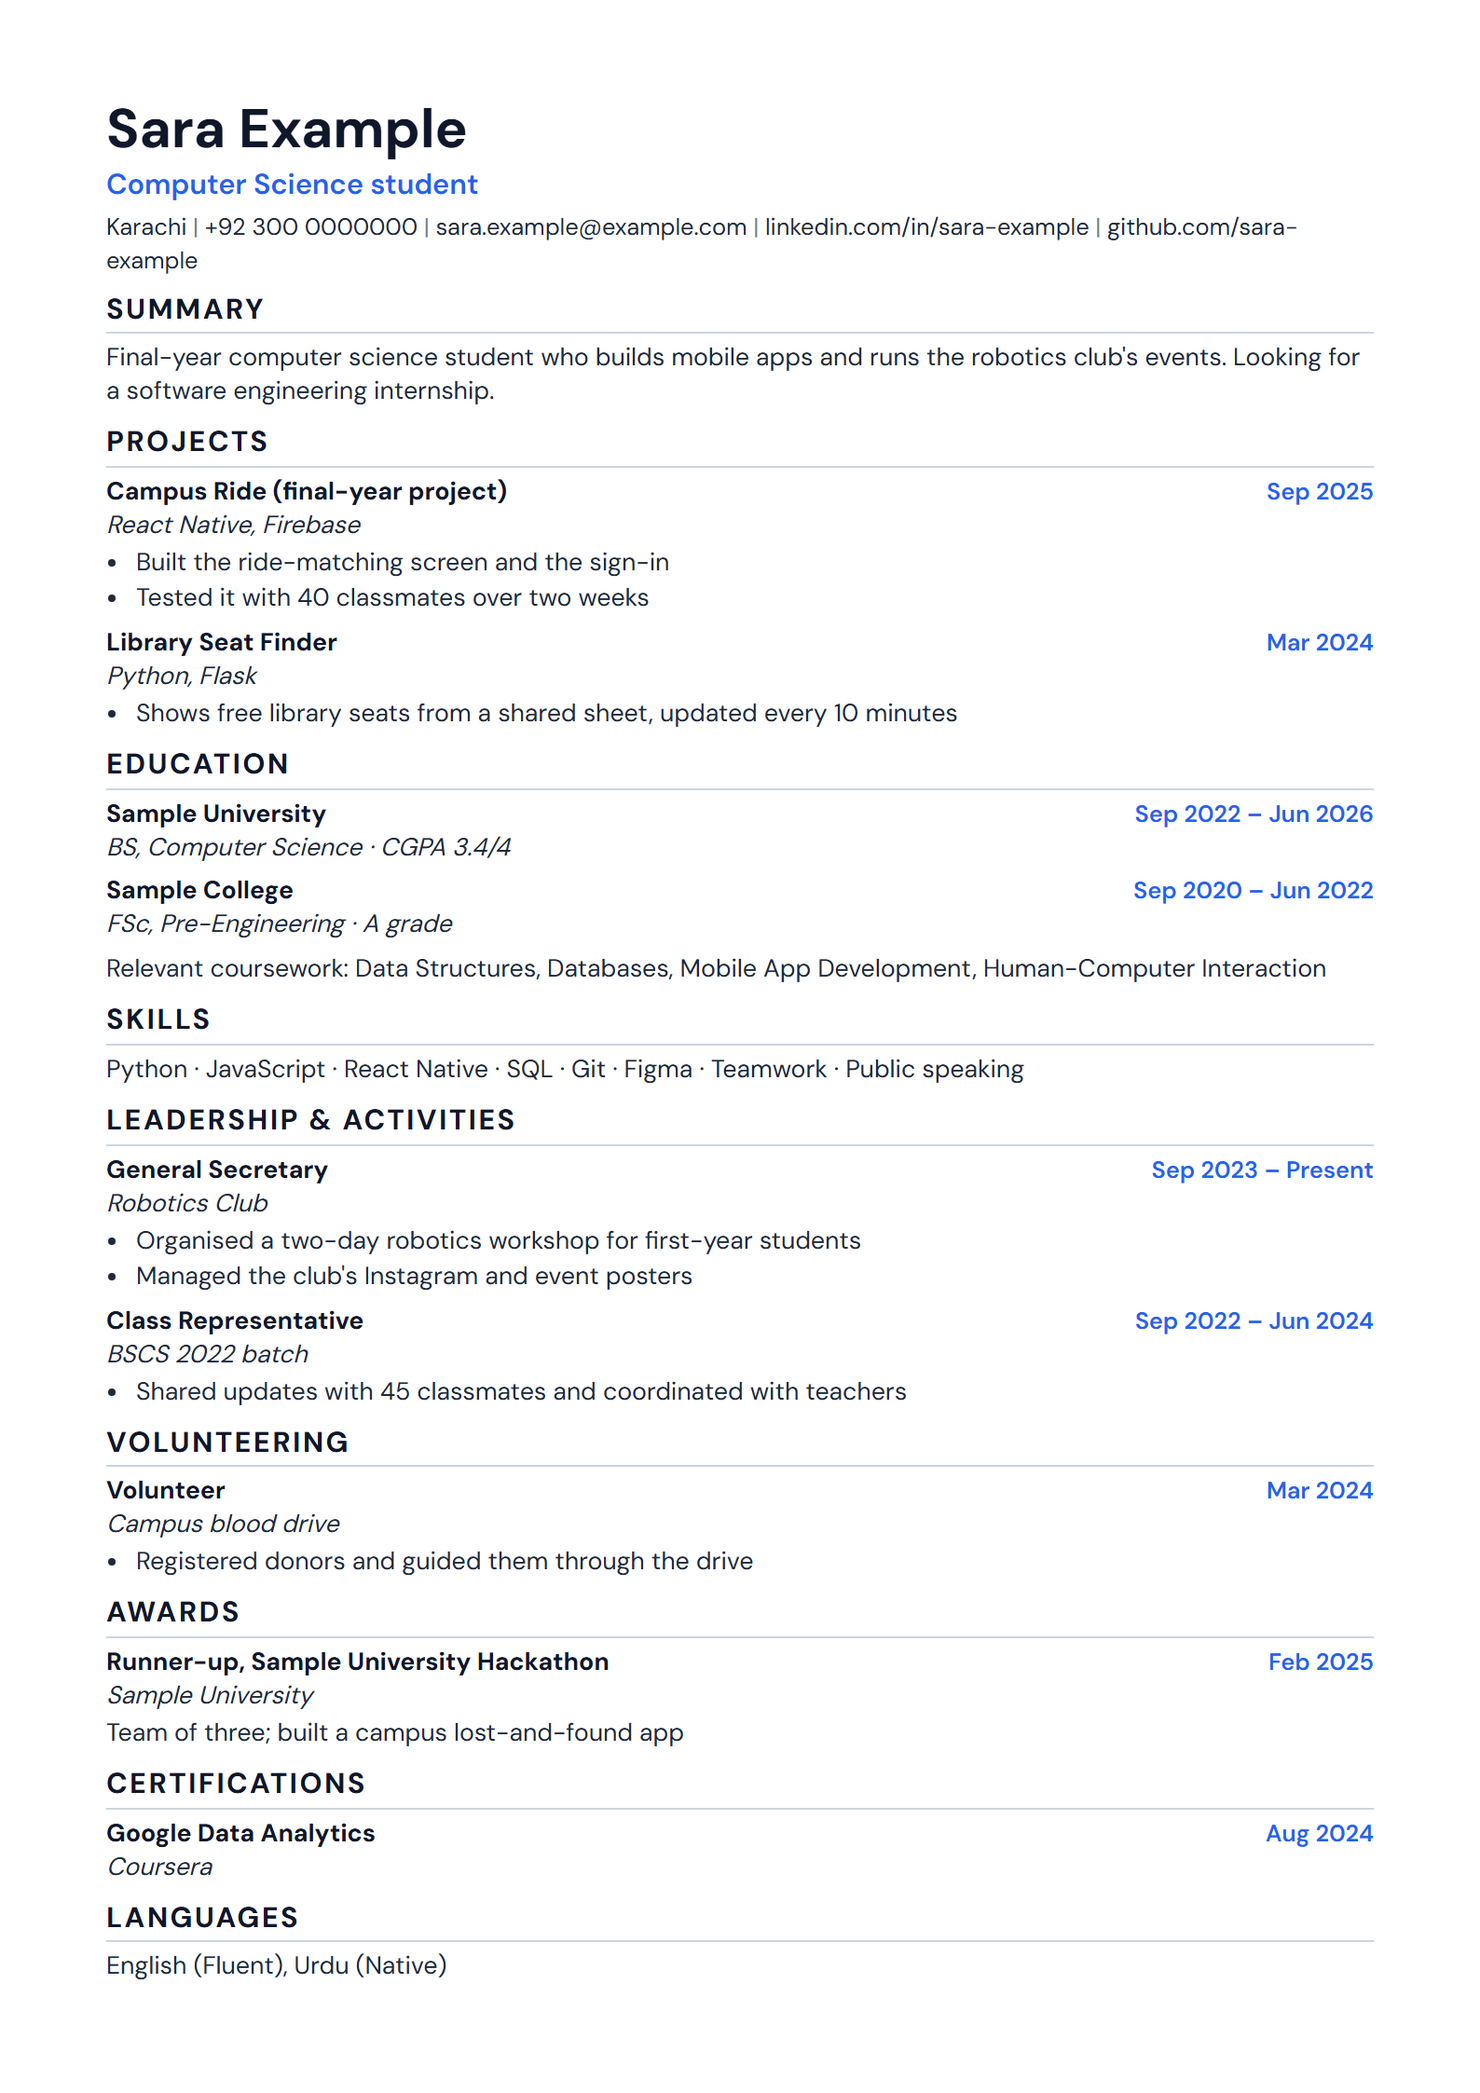
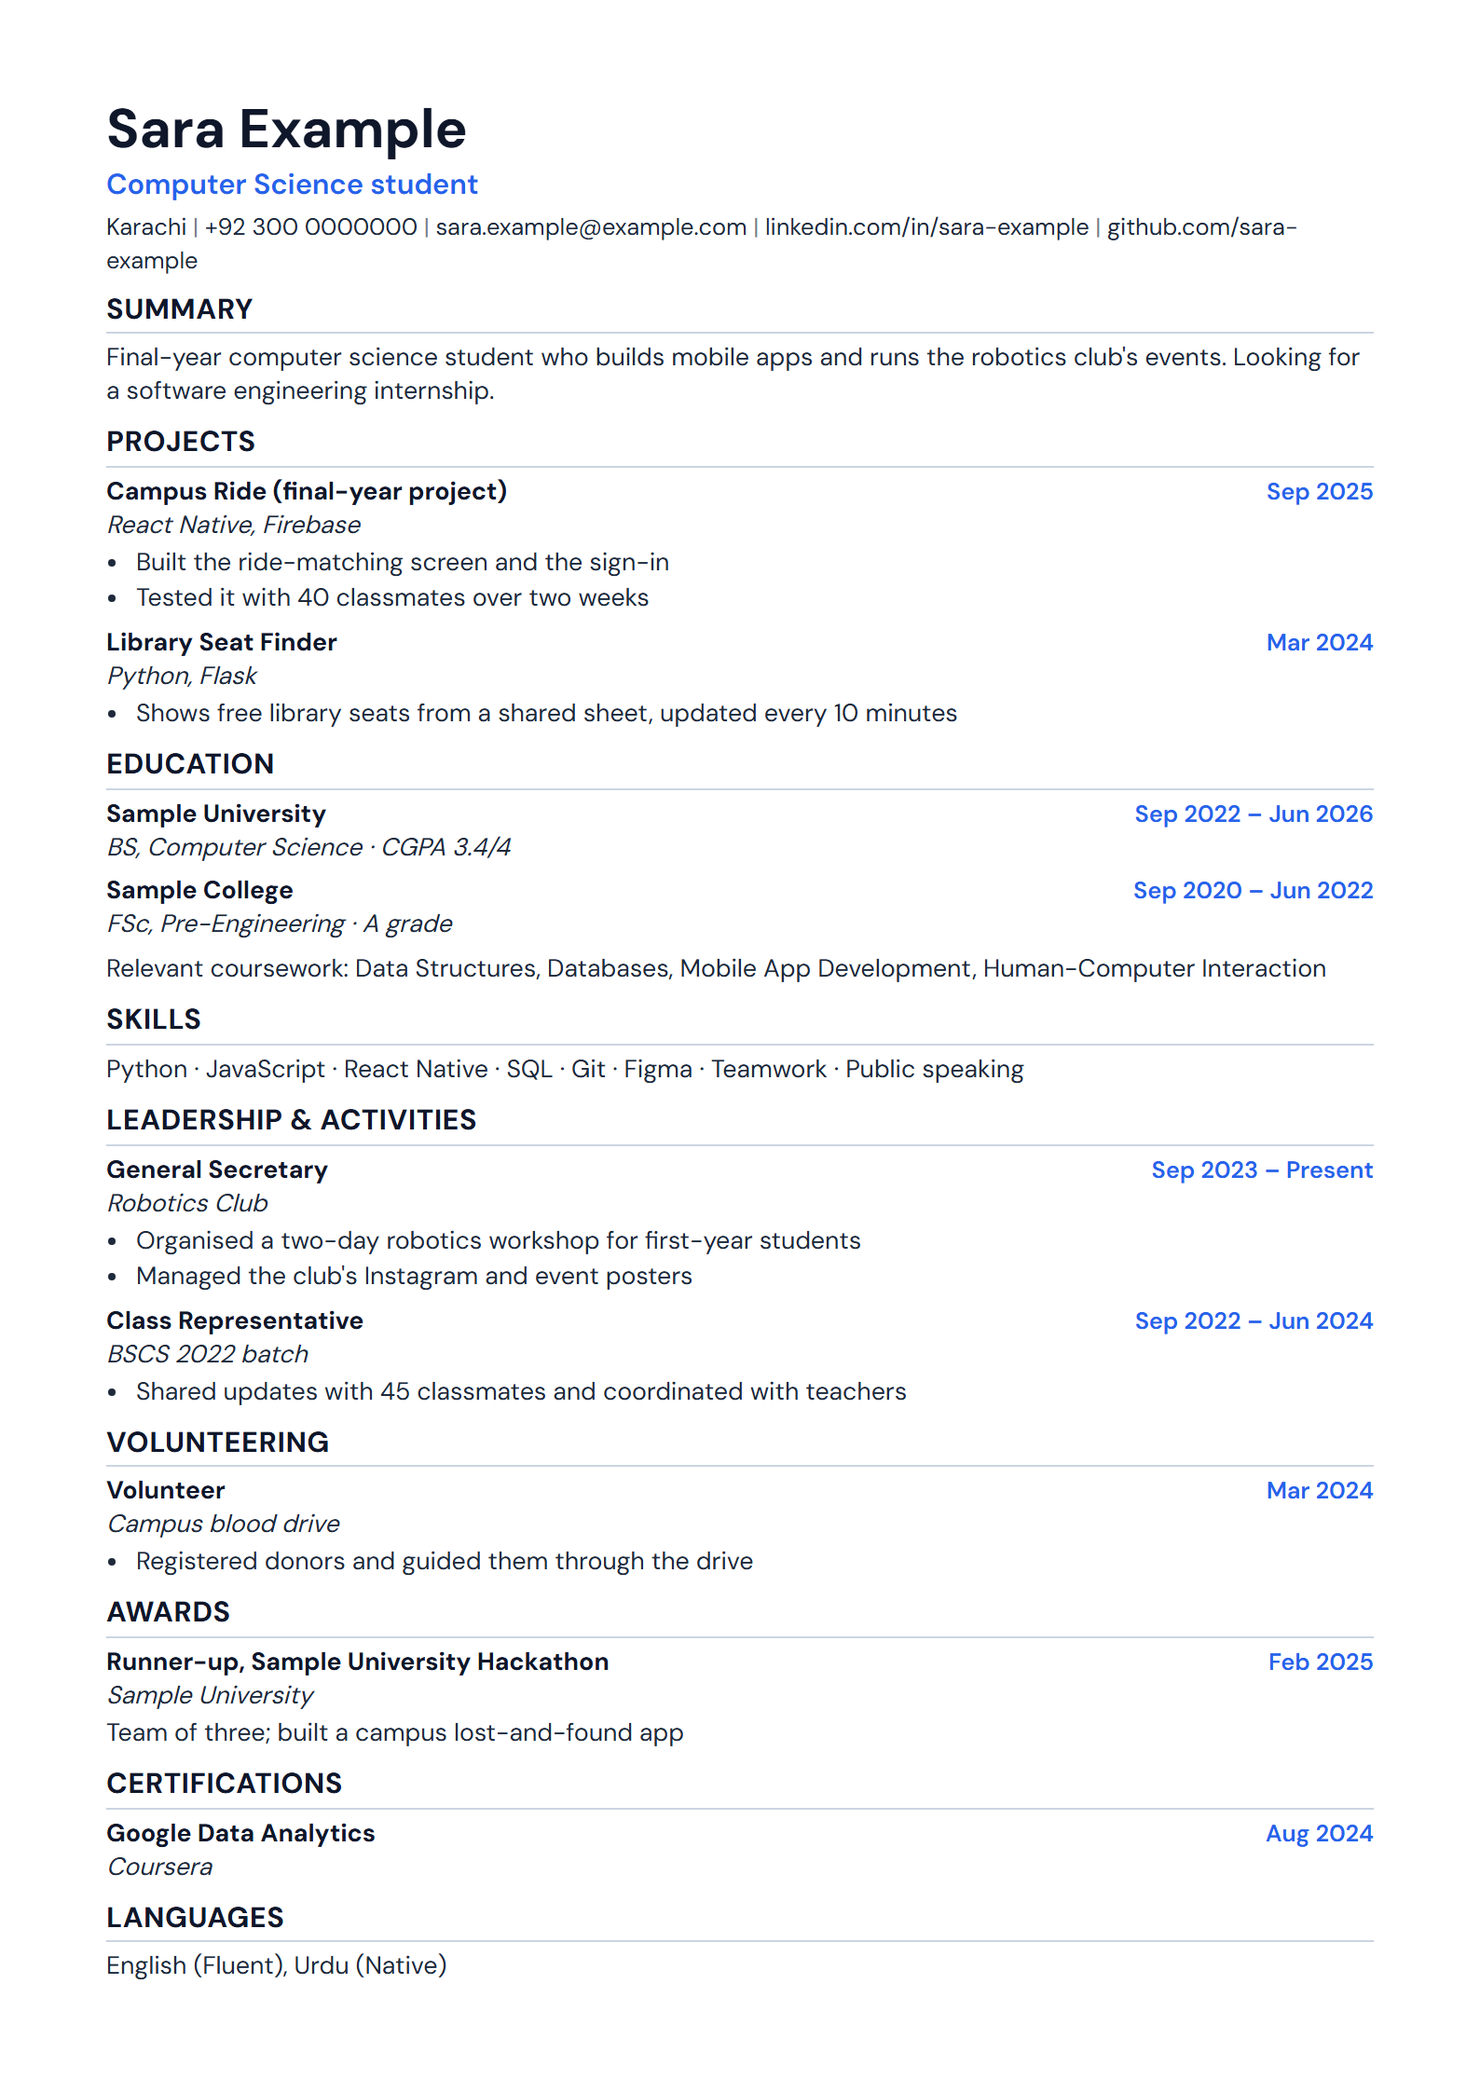
P3c step 2: ATS-safe badge tested on the real PDF; approval gate
tests/app/resume-ats: Chrome prints each template's PDF (two resumes),
pdftotext extracts it like a portal; ATS-safe = name, contact, every
heading and entry in reading order. Found: letter-spaced headings come
out as "E D U C A T I O N". The new heading styles now keep spacing
<= 0.06em, so all 10 new templates pass (ats: 'safe'); previews
re-rendered (headings slightly tighter). The five older templates are
unchanged (395/395): Minimal (rezi) has the same problem today; recorded
as not ATS-safe (OLD_BADGES), reported to the owner. Library templates
carry approved: false until the owner's sign-off (gallery shows approved
only).

diff --git a/app/src/services/templates/library.js b/app/src/services/templates/library.js
@@ -15,37 +15,39 @@ const BASE = { body: DM, head: DM, size: 10, line: 1.35, nameSize: 22, align: 'l
 // a student leads with education, projects and activities; experience (optional) last
 const FRESHER_ORDER = ['education', 'projects', 'activities', 'volunteering', 'skills', 'awards', 'certifications', 'languages', 'experience'];
 
+// ats: what tests/app/resume-ats.test.js finds on the real PDF ('safe' | 'design'); approved: the owner's design
+// sign-off (P3c step 1): only approved templates show in the app's gallery
 export const LIBRARY = [
   // ---------- Fresher & Student ----------
   {
-    id: 'campus', name: 'Campus', collection: 'fresher', description: 'a colour band for your name, clean sections',
+    id: 'campus', name: 'Campus', collection: 'fresher', ats: 'safe', approved: false, description: 'a colour band for your name, clean sections',
     look: { ...BASE, head: OUTFIT, band: true, h2x: 'caps-spaced', accent: '#0F766E', heading: '#0F172A', text: '#1F2937', order: FRESHER_ORDER, skillSep: ' · ' },
   },
   {
-    id: 'first_step', name: 'First Step', collection: 'fresher', description: 'centred and calm, serif headings',
+    id: 'first_step', name: 'First Step', collection: 'fresher', ats: 'safe', approved: false, description: 'centred and calm, serif headings',
     look: { ...BASE, head: SERIF, nameSize: 24, align: 'center', h2: 'full-rule', accent: '#1E3A8A', heading: '#111827', text: '#1F2937', order: FRESHER_ORDER },
   },
   {
-    id: 'fresh_start', name: 'Fresh Start', collection: 'fresher', description: 'bold name, a coloured bar on each heading',
+    id: 'fresh_start', name: 'Fresh Start', collection: 'fresher', ats: 'safe', approved: false, description: 'bold name, a coloured bar on each heading',
     look: { ...BASE, head: OUTFIT, nameSize: 25, h2x: 'bar-left', accent: '#C2410C', heading: '#111827', text: '#1F2937', order: FRESHER_ORDER, nameAccent: false },
   },
   {
-    id: 'society_leader', name: 'Society Leader', collection: 'fresher', description: 'leadership and activities right after education',
+    id: 'society_leader', name: 'Society Leader', collection: 'fresher', ats: 'safe', approved: false, description: 'leadership and activities right after education',
     look: { ...BASE, head: OUTFIT, nameAccent: true, h2x: 'underline-accent', accent: '#6D28D9', heading: '#111827', text: '#1F2937',
       order: ['education', 'activities', 'volunteering', 'projects', 'skills', 'awards', 'certifications', 'languages', 'experience'] },
   },
   {
-    id: 'project_first', name: 'Project First', collection: 'fresher', description: 'projects on top, for builders and makers',
+    id: 'project_first', name: 'Project First', collection: 'fresher', ats: 'safe', approved: false, description: 'projects on top, for builders and makers',
     look: { ...BASE, h2x: 'thin-rule', dateAccent: true, accent: '#2563EB', heading: '#0F172A', text: '#1E293B', skillSep: ' · ',
       order: ['projects', 'education', 'skills', 'activities', 'volunteering', 'awards', 'certifications', 'languages', 'experience'] },
   },
   {
-    id: 'internship_ready', name: 'Internship Ready', collection: 'fresher', description: 'compact, education and skills up front',
+    id: 'internship_ready', name: 'Internship Ready', collection: 'fresher', ats: 'safe', approved: false, description: 'compact, education and skills up front',
     look: { ...BASE, size: 9.5, line: 1.3, nameSize: 20, gap: 7, margin: '12mm 13mm', h2: 'accent-rule', accent: '#15803D', heading: '#0F172A', text: '#1F2937', subPlain: true,
       order: ['education', 'skills', 'projects', 'activities', 'volunteering', 'experience', 'awards', 'certifications', 'languages'] },
   },
   {
-    id: 'scholar', name: 'Scholar', collection: 'fresher', description: 'academic: education, awards and research first',
+    id: 'scholar', name: 'Scholar', collection: 'fresher', ats: 'safe', approved: false, description: 'academic: education, awards and research first',
     // owner: distinct from Harvard: a short burgundy line under letter-spaced headings, the name in burgundy
     look: { ...BASE, body: SERIF, head: SERIF, nameSize: 22, align: 'center', h2x: 'short-rule', nameAccent: true, accent: '#7F1D1D', heading: '#111111', text: '#222222',
       order: ['education', 'awards', 'projects', 'activities', 'volunteering', 'skills', 'languages', 'certifications', 'experience'],
@@ -53,17 +55,22 @@ export const LIBRARY = [
   },
   // ---------- ATS Pro ----------
   {
-    id: 'harvard', name: 'Harvard', collection: 'ats', description: 'the classic: serif, centred, ruled headings',
+    id: 'harvard', name: 'Harvard', collection: 'ats', ats: 'safe', approved: false, description: 'the classic: serif, centred, ruled headings',
     look: { ...BASE, body: SERIF, head: SERIF, size: 10, line: 1.32, nameSize: 20, align: 'center', h2x: 'smallcaps-rule', accent: '#111111', heading: '#111111', text: '#111111', subPlain: false },
   },
   {
-    id: 'clean_line', name: 'Clean Line', collection: 'ats', description: 'minimal sans, thin lines, lots of air',
+    id: 'clean_line', name: 'Clean Line', collection: 'ats', ats: 'safe', approved: false, description: 'minimal sans, thin lines, lots of air',
     look: { ...BASE, line: 1.36, gap: 8, nameSize: 22, h2x: 'thin-rule', accent: '#0F172A', heading: '#0F172A', text: '#334155', second: '#94A3B8', subPlain: true },
   },
   {
-    id: 'two_tone', name: 'Two-tone', collection: 'ats', description: 'name and headings in two calm colours',
+    id: 'two_tone', name: 'Two-tone', collection: 'ats', ats: 'safe', approved: false, description: 'name and headings in two calm colours',
     look: { ...BASE, head: OUTFIT, nameAccent: true, second: '#0E7490', h2x: 'thin-rule', accent: '#1E3A8A', heading: '#0F172A', text: '#1F2937', dateAccent: true },
   },
 ];
+
+// the five older templates' ATS result (Minimal's letter-spaced headings come out of the PDF as "E D U C A T I O N":
+// reported to the owner; no badge until that changes)
+export const OLD_BADGES = Object.freeze({ modern_ats: 'safe', stanford: 'safe', jakes: 'safe', faang: 'safe', rezi: null });
+export const approvedLibrary = () => LIBRARY.filter((t) => t.approved === true);
 
 export const COLLECTIONS = Object.freeze({ fresher: 'Fresher & Student', ats: 'ATS Pro' });

diff --git a/tests/app/resume-ats.test.js b/tests/app/resume-ats.test.js
@@ -1,0 +1,79 @@
+// P3-6 §4: the ATS-safe badge, tested on the real PDF (owner #2: puppeteer as a devDependency). For every template
+// (the five + the library) and two resumes (the SAMPLE fresher and an experienced one), Chrome prints the PDF and
+// pdftotext (xpdf / poppler: how most portals read PDFs) extracts the text. A template earns "ATS-safe" when the name,
+// e-mail, phone, every section heading and every entry title come out, in the order of the document (two columns
+// would interleave). The library's badges (library.js `ats`) must match what this finds.
+// Needs Chrome / Edge and pdftotext on the machine; skips (with a note) when either is missing.
+//   node tests/app/resume-ats.test.js
+const fs = require("fs");
+const os = require("os");
+const path = require("path");
+const { execFileSync } = require("child_process");
+const H = require("./harness");
+const { ok, done } = H.counter();
+
+const pdftotext = (() => { for (const c of [process.env.PDFTOTEXT, "pdftotext", "C:/Program Files/Git/mingw64/bin/pdftotext.exe", "/usr/bin/pdftotext", "/opt/homebrew/bin/pdftotext"]) { if (!c) continue; try { execFileSync(c, ["-v"], { stdio: "pipe" }); return c; } catch (e) { if (/pdftotext version/i.test(String(e.stderr || "") + String(e.stdout || ""))) return c; /* xpdf exits 99 on -v */ } } return null; })();
+
+const EXPERIENCED = {
+  personalInfo: { firstName: "Bilal", lastName: "Sample", title: "Software Engineer", email: "bilal.sample@example.com", phone: "+92 300 1111111", city: "Lahore", linkedin: "linkedin.com/in/bilal-sample" },
+  professionalSummary: { summary: "Engineer with two years of backend work on payments and search." },
+  workExperience: [
+    { company: "Sample Payments", position: "Backend Engineer", startDate: "2024-07-15T00:00:00.000Z", current: true, achievements: ["Built the refunds service", "Cut checkout errors by a third"] },
+    { company: "Sample Labs", position: "Software Intern", startDate: "2023-06-15T00:00:00.000Z", endDate: "2023-08-15T00:00:00.000Z", achievements: ["Wrote the search indexer"] },
+  ],
+  education: [{ institution: "Sample University", degree: "BS", fieldOfStudy: "Computer Science", startDate: "2019-09-15T00:00:00.000Z", endDate: "2023-06-15T00:00:00.000Z" }],
+  projects: [{ name: "Budget Bot", technologies: ["Node.js"], description: "- A chat bot for monthly budgets" }],
+  skills: ["Node.js", "PostgreSQL", "Redis", "Docker"].map((name) => ({ name })),
+  certifications: [{ name: "AWS Cloud Practitioner", organization: "Amazon", issueDate: "2024-01-15T00:00:00.000Z" }],
+  languages: [{ name: "English", proficiency: "Fluent" }],
+};
+
+(async () => {
+  const { executable, launch } = require("../templates/browser");
+  if (!executable() || !pdftotext) {
+    console.log(`   skipped: ${!executable() ? "no Chrome / Edge" : "no pdftotext (poppler)"} on this machine`);
+    ok(true, "ATS test skipped on this machine (not a pass mark)");
+    return done();
+  }
+  const svc = H.loader({})(path.join(H.SRC, "services/templateService.js"));
+  const { LIBRARY, OLD_BADGES } = H.loader({})(path.join(H.SRC, "services/templates/library.js"));
+  const { FRESHER_SAMPLE } = require("../templates/sample");
+  const ids = [...svc.TEMPLATES.map((t) => t.id), ...LIBRARY.map((t) => t.id)];
+  const tmp = fs.mkdtempSync(path.join(os.tmpdir(), "tdc-ats-"));
+  const browser = await launch();
+  const page = await browser.newPage();
+  const norm = (s) => s.replace(/\s+/g, " ").replace(/[‐-―]/g, "-").toLowerCase();
+  const results = {};
+  for (const id of ids) {
+    let safe = true;
+    const why = [];
+    for (const [label, resume] of [["fresher", FRESHER_SAMPLE], ["experienced", EXPERIENCED]]) {
+      const html = svc.renderResumeHTML(resume, id);
+      await page.setContent(html, { waitUntil: "load" });
+      const file = path.join(tmp, `${id}-${label}.pdf`);
+      await page.pdf({ path: file, format: "A4", printBackground: true, preferCSSPageSize: true });
+      const text = norm(execFileSync(pdftotext, ["-enc", "UTF-8", file, "-"]).toString("utf8"));
+      // what must come out, in document order: name, contact, then each heading and each entry title as the HTML has them
+      const expected = await page.evaluate(() => [...document.querySelectorAll("h1, .contact, h2, .entry .t")].map((e) => e.innerText.replace(/\s+/g, " ").trim()).filter(Boolean));
+      let at = -1;
+      for (const want of expected) {
+        const needle = norm(want).slice(0, 28);
+        const i = text.indexOf(needle, at + 1);
+        if (i < 0) { safe = false; why.push(`${label}: "${want.slice(0, 30)}" missing or out of order`); break; }
+        at = i;
+      }
+      for (const must of [resume.personalInfo.email, resume.personalInfo.phone]) if (!text.includes(norm(must))) { safe = false; why.push(`${label}: ${must} missing`); }
+    }
+    results[id] = { safe, why };
+    const old = svc.TEMPLATES.some((t) => t.id === id);
+    // the five older templates: their recorded result (OLD_BADGES) must still be what the PDF shows; Minimal (rezi)
+    // is recorded as not safe (letter-spaced headings), reported to the owner, so a change either way is noticed
+    if (old) ok((OLD_BADGES[id] === "safe") === safe, `${id} (older): ${safe ? "ATS-safe" : "not ATS-safe"}, as recorded`, why.join(" | "));
+    else ok(safe, `${id}: ATS-safe (name, contact, every heading and entry in reading order, both resumes)`, why.join(" | "));
+  }
+  await browser.close();
+  fs.rmSync(tmp, { recursive: true, force: true });
+  const wrong = LIBRARY.filter((t) => (t.ats === "safe") !== results[t.id].safe).map((t) => `${t.id}: says ${t.ats}, test ${results[t.id].safe ? "safe" : "not safe"}`);
+  ok(LIBRARY.every((t) => t.ats === "safe" || t.ats === "design") && wrong.length === 0, "every library template's badge matches the test", wrong.join(", "));
+  done();
+})().catch((e) => { console.error(e); process.exit(1); });

diff --git a/app/src/services/templateService.js b/app/src/services/templateService.js
@@ -261,17 +261,19 @@ function extras(look, { accent, heading, text }) {
   if (look.band) out.push(`header { background: ${accent}; color: #ffffff; padding: 14px 16px 12px; border-radius: 6px; }`, 'header h1, header .title, header .contact, header .contact a { color: #ffffff; }', 'header .sep { opacity: 0.8; }');
   if (look.nameAccent && !look.band) out.push(`h1 { color: ${accent}; }`);
   if (look.second) out.push(`h2 { color: ${second}; }`);
+  // heading letter-spacing stays small (≤ 0.06em): wider spacing comes out of the PDF as "E D U C A T I O N", which
+  // job portals can't read (tests/app/resume-ats.test.js)
   const h2x = {
-    'bar-left': `h2 { border-bottom: none; border-left: 4px solid ${accent}; padding: 0 0 0 8px; }`,
-    'caps-spaced': `h2 { border-bottom: none; color: ${accent}; letter-spacing: 0.18em; font-size: ${look.size + 0.5}pt; }`,
-    'thin-rule': `h2 { border-bottom: 0.75px solid ${look.second || '#CBD5E1'}; padding-bottom: 2px; }`,
+    'bar-left': `h2 { border-bottom: none; border-left: 4px solid ${accent}; padding: 0 0 0 8px; letter-spacing: 0.02em; }`,
+    'caps-spaced': `h2 { border-bottom: none; color: ${accent}; letter-spacing: 0.05em; font-size: ${look.size + 0.5}pt; }`,
+    'thin-rule': `h2 { border-bottom: 0.75px solid ${look.second || '#CBD5E1'}; padding-bottom: 2px; letter-spacing: 0.02em; }`,
     'smallcaps-rule': `h2 { text-transform: none; font-variant: small-caps; letter-spacing: 0.06em; color: ${heading}; border-bottom: 1px solid ${heading}; padding-bottom: 1px; font-size: ${look.size + 2}pt; }`,
-    'underline-accent': `h2 { display: inline-block; border-bottom: 2.5px solid ${accent}; padding-bottom: 1px; }`,
+    'underline-accent': `h2 { display: inline-block; border-bottom: 2.5px solid ${accent}; padding-bottom: 1px; letter-spacing: 0.02em; }`,
     // a short accent line under the heading (no full-width rule): Scholar
-    'short-rule': `h2 { border-bottom: none; color: ${accent}; letter-spacing: 0.1em; font-size: ${look.size + 0.5}pt; } h2::after { content: ''; display: block; width: 36px; border-bottom: 2px solid ${accent}; margin-top: 3px; }`,
+    'short-rule': `h2 { border-bottom: none; color: ${accent}; letter-spacing: 0.06em; font-size: ${look.size + 0.5}pt; } h2::after { content: ''; display: block; width: 36px; border-bottom: 2px solid ${accent}; margin-top: 3px; }`,
   }[look.h2x];
   if (h2x) out.push(h2x);
-  if (look.h2x === 'none') out.push('h2 { border: none; padding: 0; }');
+  if (look.h2x === 'none') out.push('h2 { border: none; padding: 0; letter-spacing: 0.02em; }');
   if (look.h2case === 'title') out.push('h2 { text-transform: none; letter-spacing: 0.01em; }');
   if (look.pageSize === 'Letter') out.push('@page { size: Letter; }');
   if (look.photoUrl) out.push(`header .photo { float: right; width: 72px; height: 72px; object-fit: cover; margin: 0 0 6px 12px; border-radius: ${{ circle: '50%', rounded: '10px', square: '0' }[look.photoShape] || '50%'}; }`);
